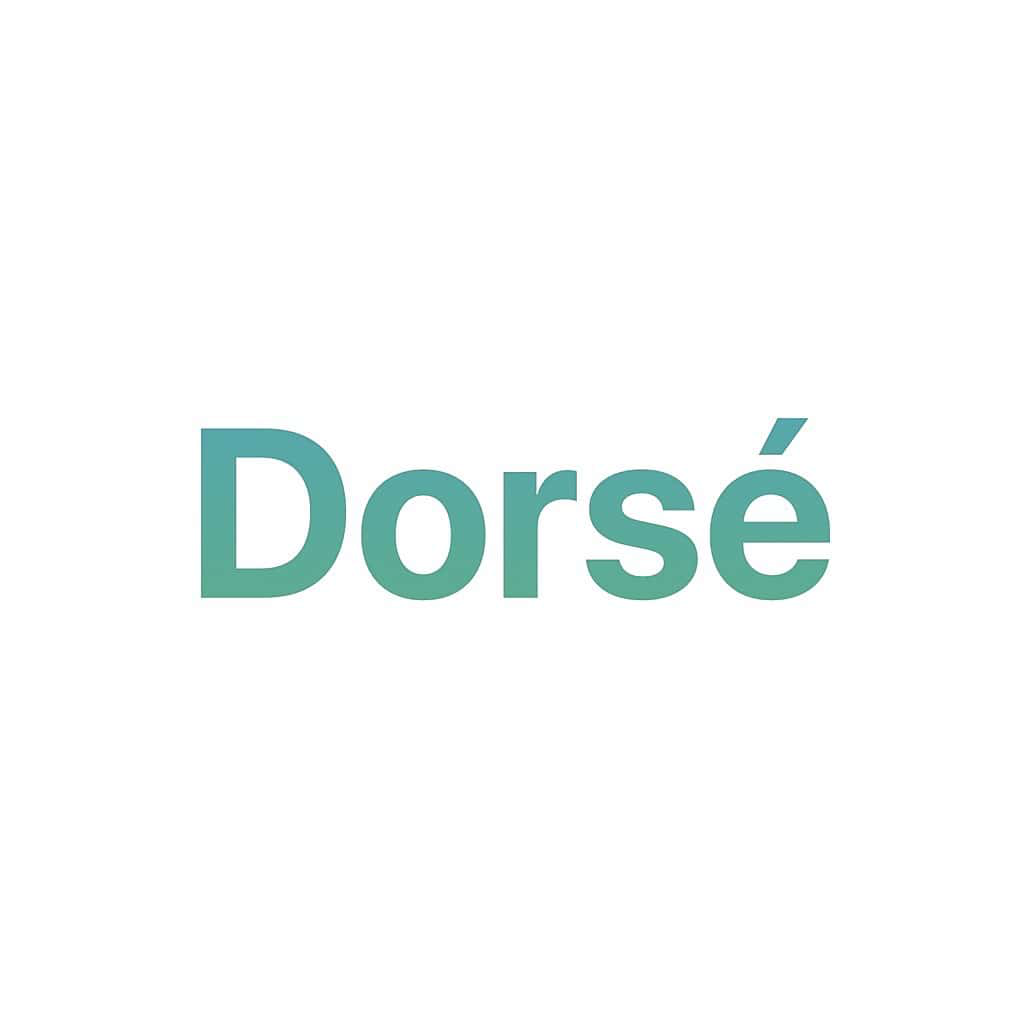
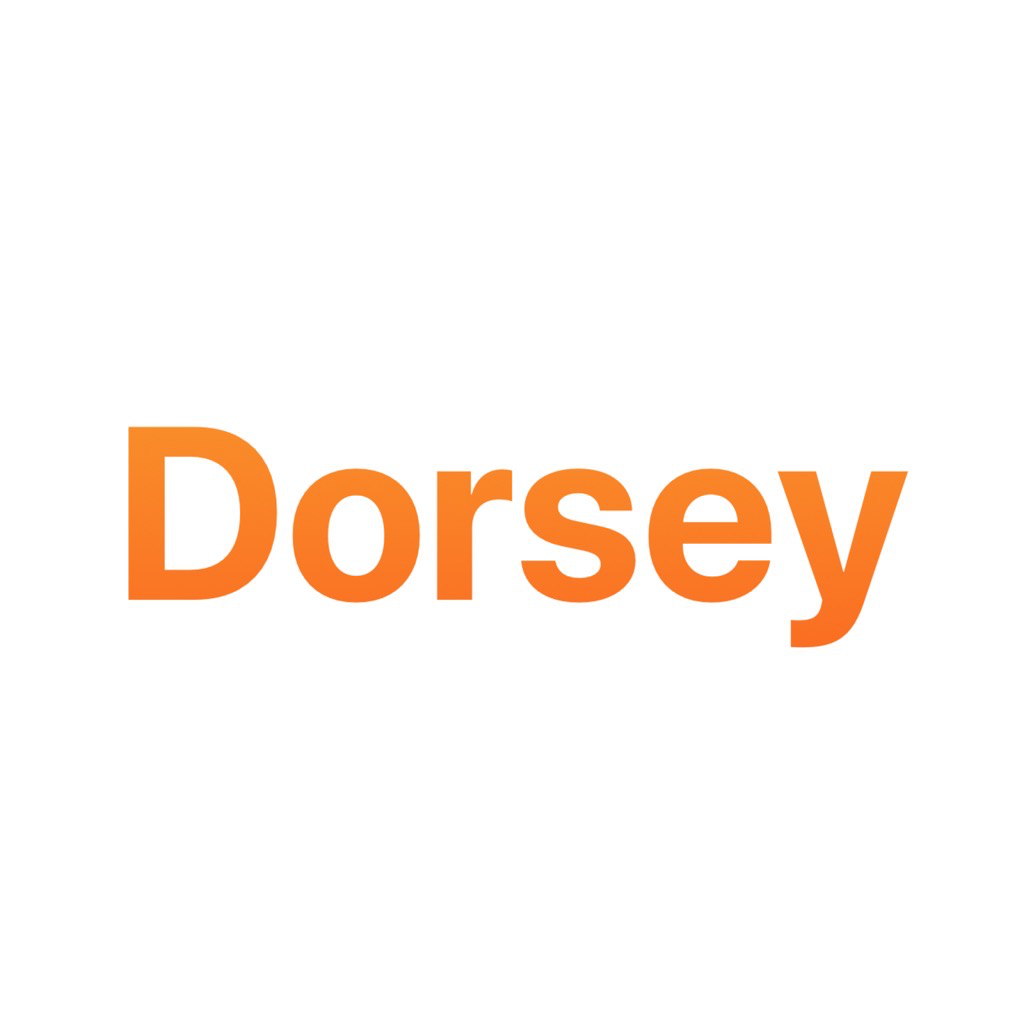
change color scheme

Changed region(s): [[0.125, 0.4062, 0.9062, 0.6562]]

diff --git a/frontend/app/navigation/MainNavigation.js b/frontend/app/navigation/MainNavigation.js
@@ -57,7 +57,7 @@ class MainNavigator extends Component {
               },
             })}
             tabBarOptions={{
-              activeTintColor: '#5eac96',
+              activeTintColor: '#fc7023',
               inactiveTintColor: 'gray',
             }}
           >

diff --git a/frontend/app/globalstyle.js b/frontend/app/globalstyle.js
@@ -21,6 +21,9 @@ export default globalstyles = StyleSheet.create({
     orange:{
       color : '#FF9800',
     },
+    paletteOrange: {
+      color : '#fc7023',
+    },
     name: {
       fontSize: 24
    },

diff --git a/frontend/app/containers/Loading/index.js b/frontend/app/containers/Loading/index.js
@@ -15,7 +15,7 @@ const LoadingScreen = () => {
          scrollEnabled={false}
          >
 
-         <Spinner color='blue' />
+         <Spinner color='orange' />
 
          </Content>
       </Container>
